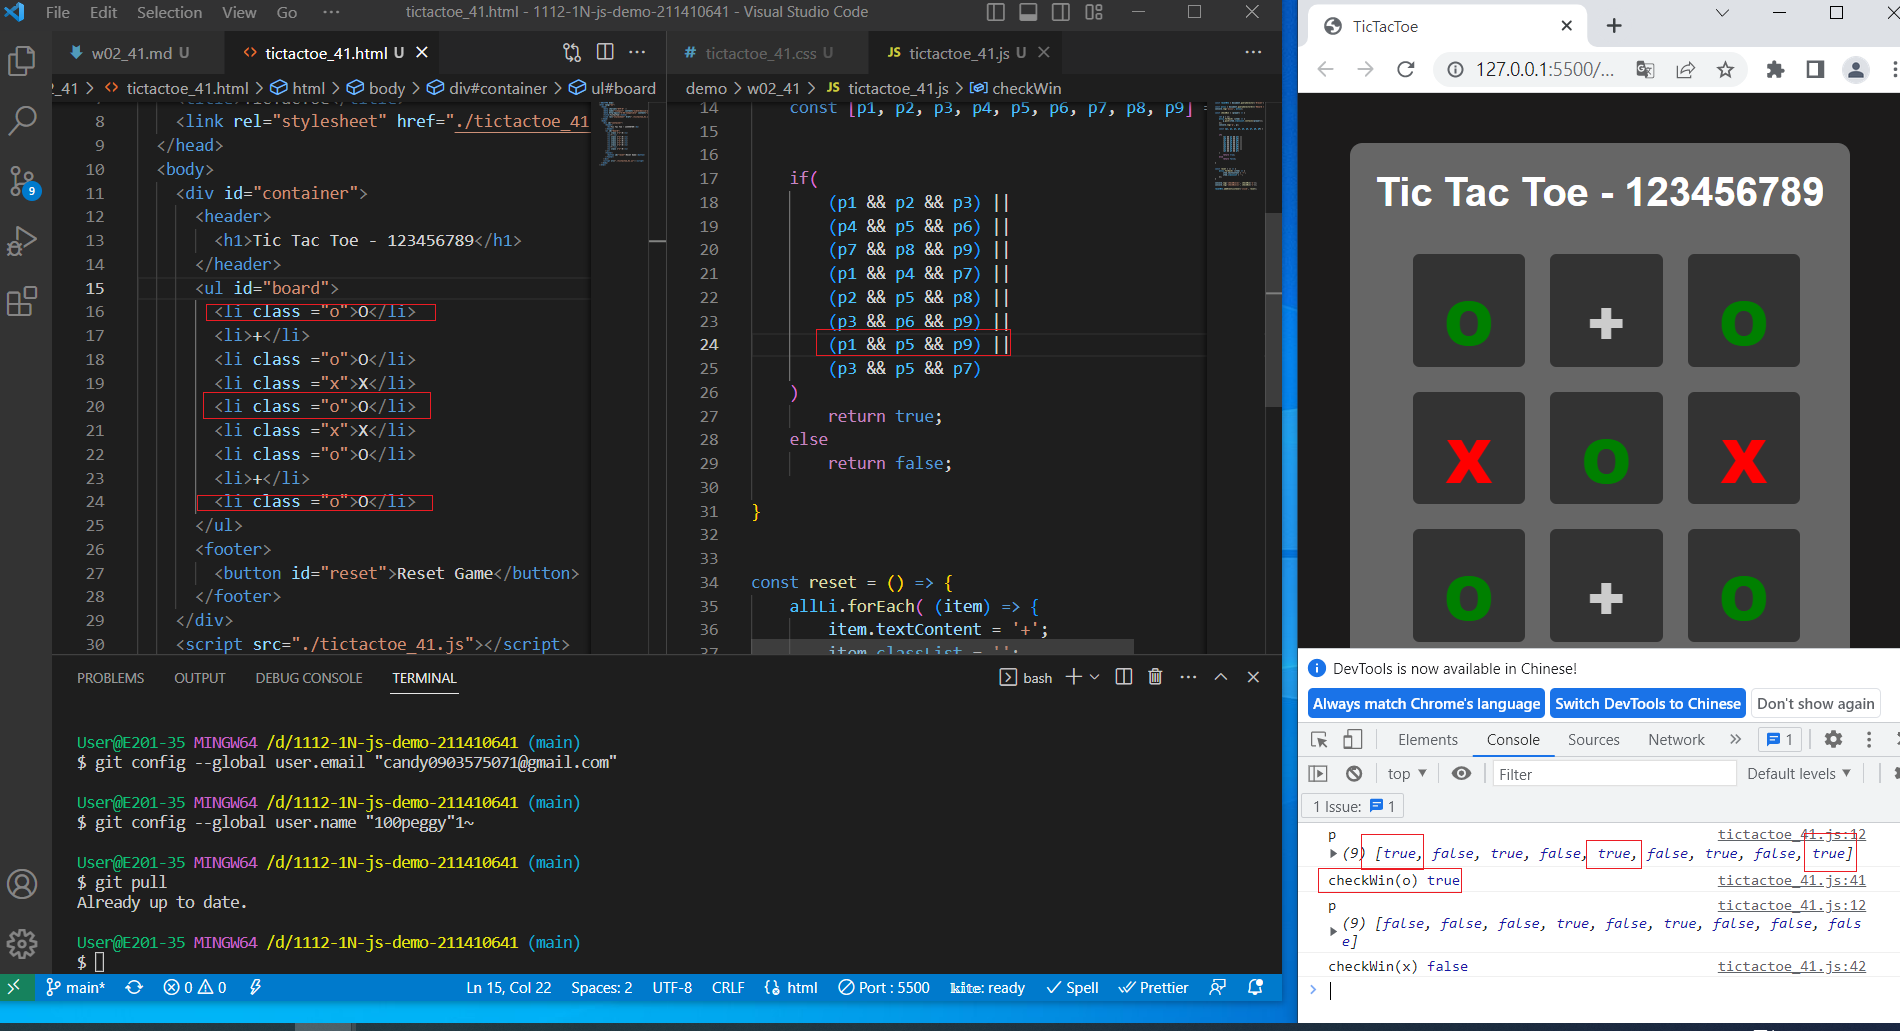
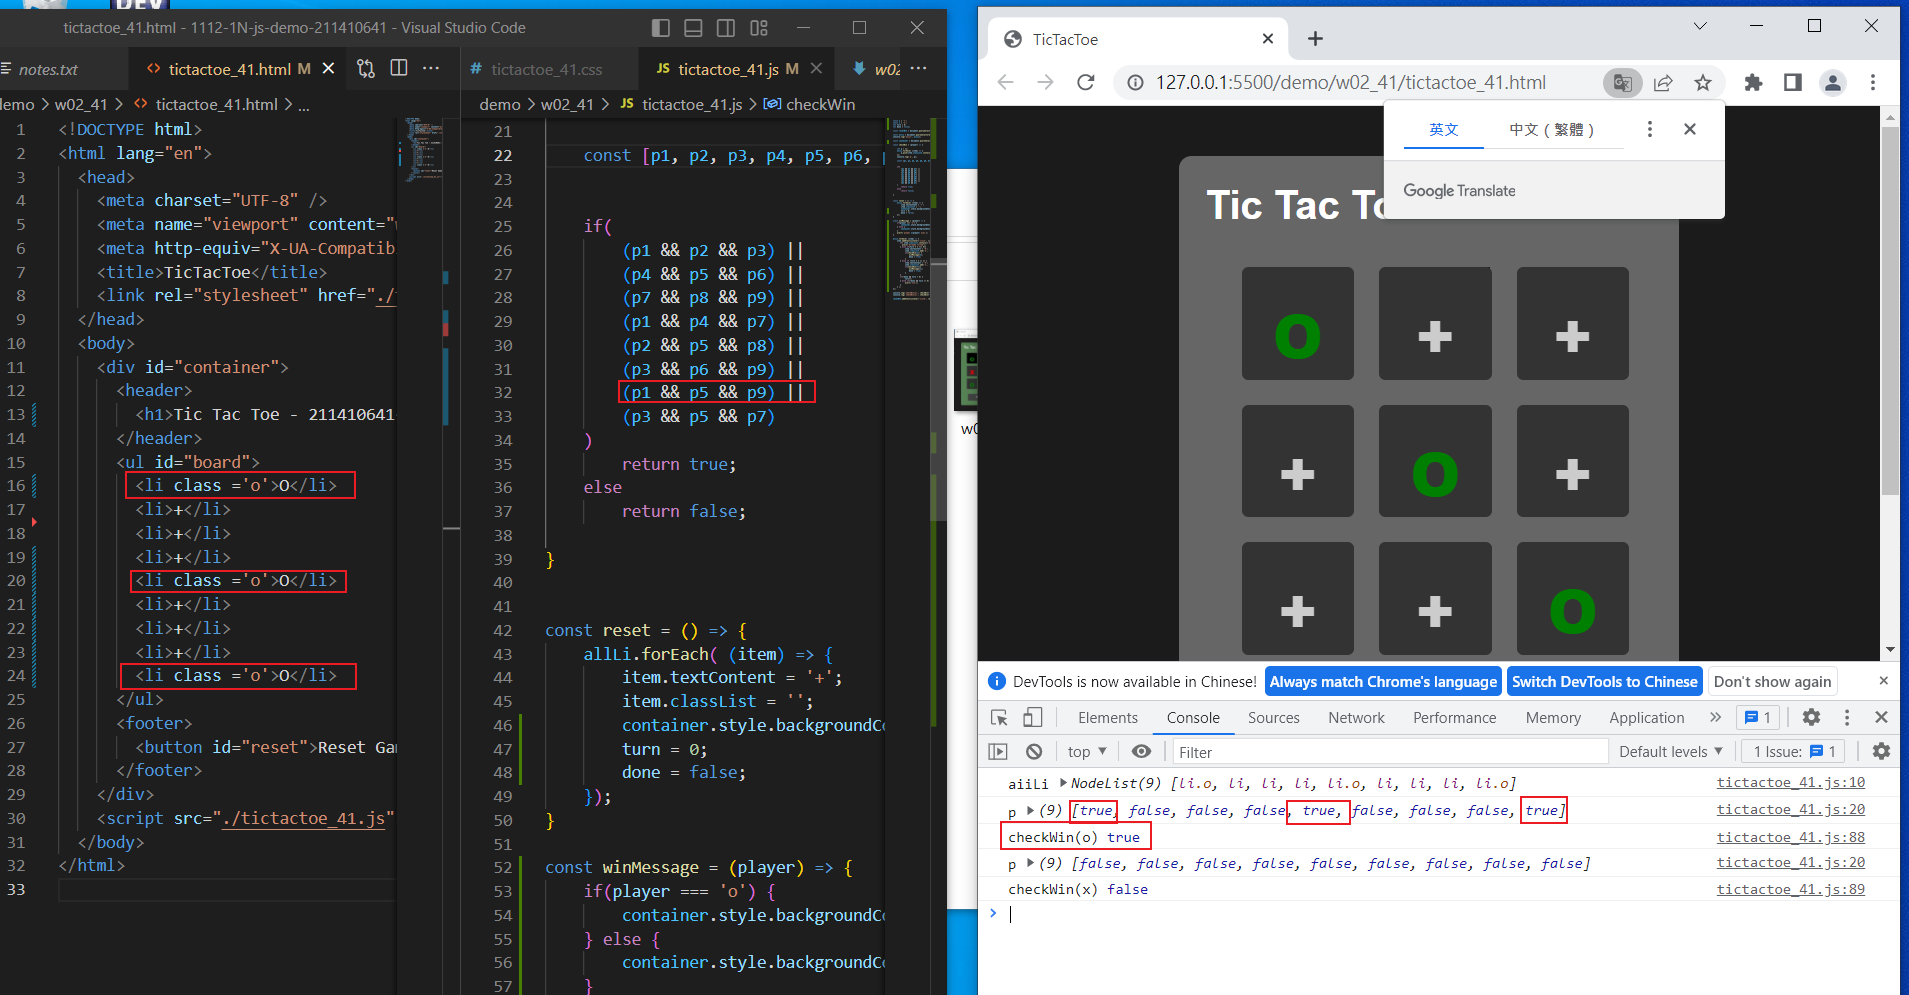
W02-P2: O win (9 times), X wins (8 times), tie (9 times)

diff --git a/demo/w02_41/tictactoe_41.js b/demo/w02_41/tictactoe_41.js
@@ -1,7 +1,15 @@
+
+const o = 'o';
+const x = 'x';
+let turn = 0;
+let done = false;
+
 const resetBtn = document.querySelector('#reset');
 
 const allLi = document.querySelectorAll('#board li');
 console.log('aiiLi', allLi);
+
+const container = document.querySelector('#container');
 
 const checkWin = (player) => {
 
@@ -35,10 +43,50 @@ const reset = () => {
     allLi.forEach( (item) => {
         item.textContent = '+';
         item.classList = '';
+        container.style.backgroundColor = '#666';
+        turn = 0;
+        done = false;
     });
 }
 
-console.log('checkWin(o)', checkWin('o'));
-console.log('checkWin(x)', checkWin('x'));
+const winMessage = (player) => {
+    if(player === 'o') {
+        container.style.backgroundColor = 'rgba(144, 238, 144, 0.5)';
+    } else {
+        container.style.backgroundColor = 'rgba(240, 118, 128, 0.726)';
+    }
+    alert(`player ${player} wins`);
+}
+
+allLi.forEach( (item) => {
+    item.addEventListener('click', () => {
+       if( item.classList.contains('disabled') ) {
+         alert('Already filled');
+         turn--;
+       } else if(turn % 2 === 0){
+            item.textContent = 'O';
+            item.classList.add('o', 'disabled');
+            if(checkWin(o)) {
+                winMessage(o);
+                done = true;
+            }
+       } else if (turn % 2 == 1) {
+            item.textContent = 'X';
+            item.classList.add('x', 'disabled');
+            if(checkWin(x)){
+                winMessage(x);
+                done = true;
+            }
+       }
+       if(!done && turn < 8) {
+            turn++;
+       } else if(!done && turn >= 8) {
+            alert('tie');
+       }
+    } );
+});
+
+//console.log('checkWin(o)', checkWin('o'));
+//console.log('checkWin(x)', checkWin('x'));
 
 resetBtn.addEventListener('click', reset);

diff --git a/demo/w02_41/tictactoe_41.html b/demo/w02_41/tictactoe_41.html
@@ -10,18 +10,18 @@
   <body>
     <div id="container">
       <header>
-        <h1>Tic Tac Toe - 123456789</h1>
+        <h1>Tic Tac Toe - 211410641</h1>
       </header>
       <ul id="board">
-        <li class ="o">O</li>
         <li>+</li>
-        <li class ="o">O</li>
-        <li class ="x">X</li>
-        <li class ="o">O</li>
-        <li class ="x">X</li>
-        <li class ="o">O</li>
         <li>+</li>
-        <li class ="o">O</li>
+        <li>+</li>
+        <li>+</li>
+        <li>+</li>
+        <li>+</li>
+        <li>+</li>
+        <li>+</li>
+        <li>+</li>
       </ul>
       <footer>
         <button id="reset">Reset Game</button>

diff --git a/demo/md/w02_41/w02_41.md b/demo/md/w02_41/w02_41.md
@@ -1,3 +1,11 @@
 [URL](https://github.com/100peggy/1112-1N-js-demo-211410641/blob/main/demo/md/w01_41/w01_41.md)
 
-###
+### W02-P1: checkWin to determine who wins, you need to create four images as said in class 
+
+![](w02-p1-1.png) 
+
+![](w02-p1-2.png) 
+
+![](w02-p1-3.png) 
+
+![](w02-p1-4.png)
